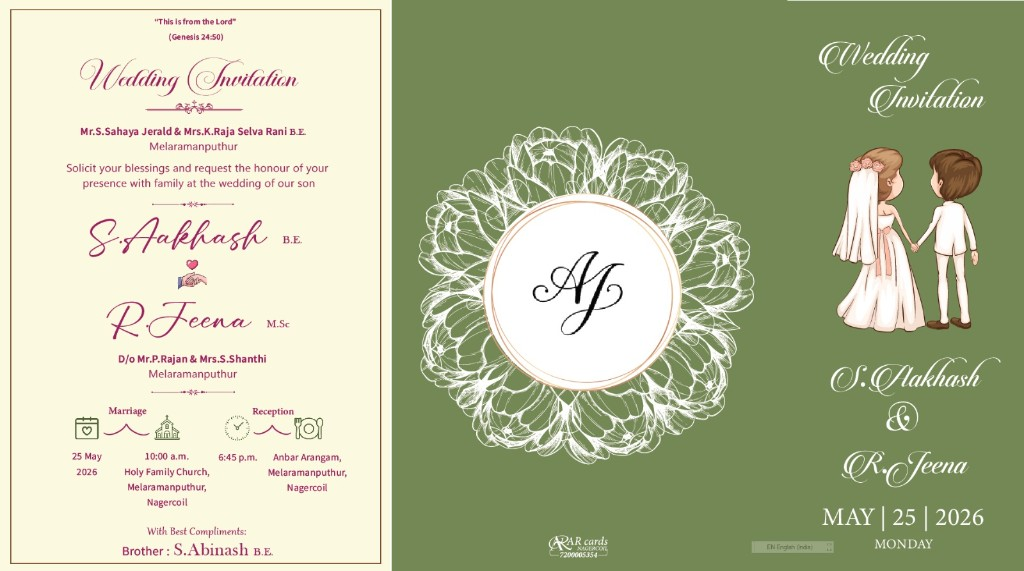
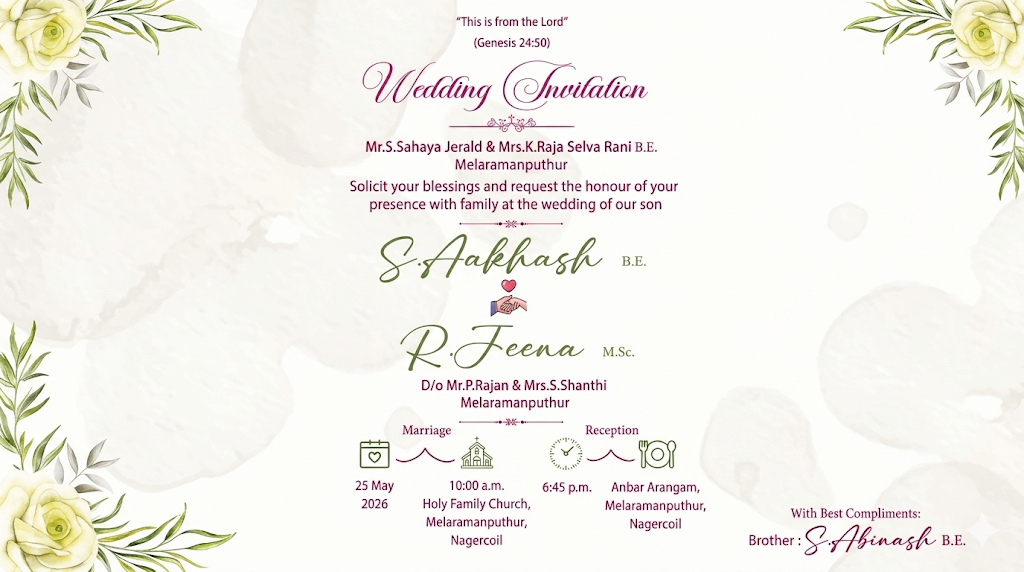
feat: update wedding images and hero layout

diff --git a/src/App.jsx b/src/App.jsx
@@ -16,10 +16,13 @@ const getAsset = (path) => `${import.meta.env.BASE_URL}${path}`
 
 const galleryItems = [
   { src: getAsset('images/couple-hero1.jpeg'), alt: 'Couple portrait at golden hour', aspect: 'portrait' },
-  { src: getAsset('images/invitation-card.png'), alt: 'Wedding invitation design', aspect: 'landscape' },
+  { src: getAsset('images/image1.jpg'), alt: 'Wedding photo 1', aspect: 'landscape' },
   { src: getAsset('images/sketch-portrait.png'), alt: 'Pencil sketch of the couple', aspect: 'portrait' },
+  { src: getAsset('images/image2.jpg'), alt: 'Wedding photo 2', aspect: 'square' },
   { src: getAsset('images/couple-hero.png'), alt: 'Romantic couple photo closeup', aspect: 'square' },
-  { src: getAsset('images/invitation-card.png'), alt: 'Wedding invite card detail', aspect: 'landscape' },
+  { src: getAsset('images/image3.jpg'), alt: 'Wedding photo 3', aspect: 'landscape' },
+  // { src: getAsset('images/invitation-card.png'), alt: 'Wedding invitation design', aspect: 'landscape' },
+  { src: getAsset('images/image4.jpg'), alt: 'Wedding photo 4', aspect: 'portrait' },
 ]
 
 const storyItems = [
@@ -27,7 +30,7 @@ const storyItems = [
     title: 'A Serendipitous Hello',
     description:
       'Aakhash and Jeena met through family friends, and what began as a simple conversation turned into hours of laughter and comfort.',
-    image: getAsset('images/sketch-portrait.png'),
+    image: getAsset('images/image3.jpg'),
   },
   {
     title: 'Growing Together',

diff --git a/src/components/Hero.jsx b/src/components/Hero.jsx
@@ -20,7 +20,7 @@ function Hero({ weddingDate, isOpened }) {
   return (
     <header id="hero" className="relative min-h-screen">
       <motion.img
-        src={`${import.meta.env.BASE_URL}images/couple-hero.png`}
+        src={`${import.meta.env.BASE_URL}images/image2.jpg`}
         alt="Aakash and Jeena together"
         className="absolute inset-0 h-full w-full object-cover object-top"
       />
@@ -45,7 +45,7 @@ function Hero({ weddingDate, isOpened }) {
         initial={{ opacity: 0, y: 24 }}
         animate={isOpened ? { opacity: 1, y: 0 } : { opacity: 0, y: 24 }}
         transition={{ duration: 1.1, delay: 0.3, ease: 'easeOut' }}
-        className="relative z-10 mx-auto flex min-h-screen max-w-4xl flex-col items-center justify-center px-4 text-center text-white"
+        className="relative z-10 mx-auto flex min-h-screen max-w-4xl flex-col items-center justify-center px-4 pt-[20vh] text-center text-white md:pt-[25vh]"
       >
         <p className="mb-3 tracking-[0.25em] text-xs uppercase md:text-sm">We're Getting Married</p>
         <h1 className="font-heading text-5xl leading-tight md:text-7xl">
